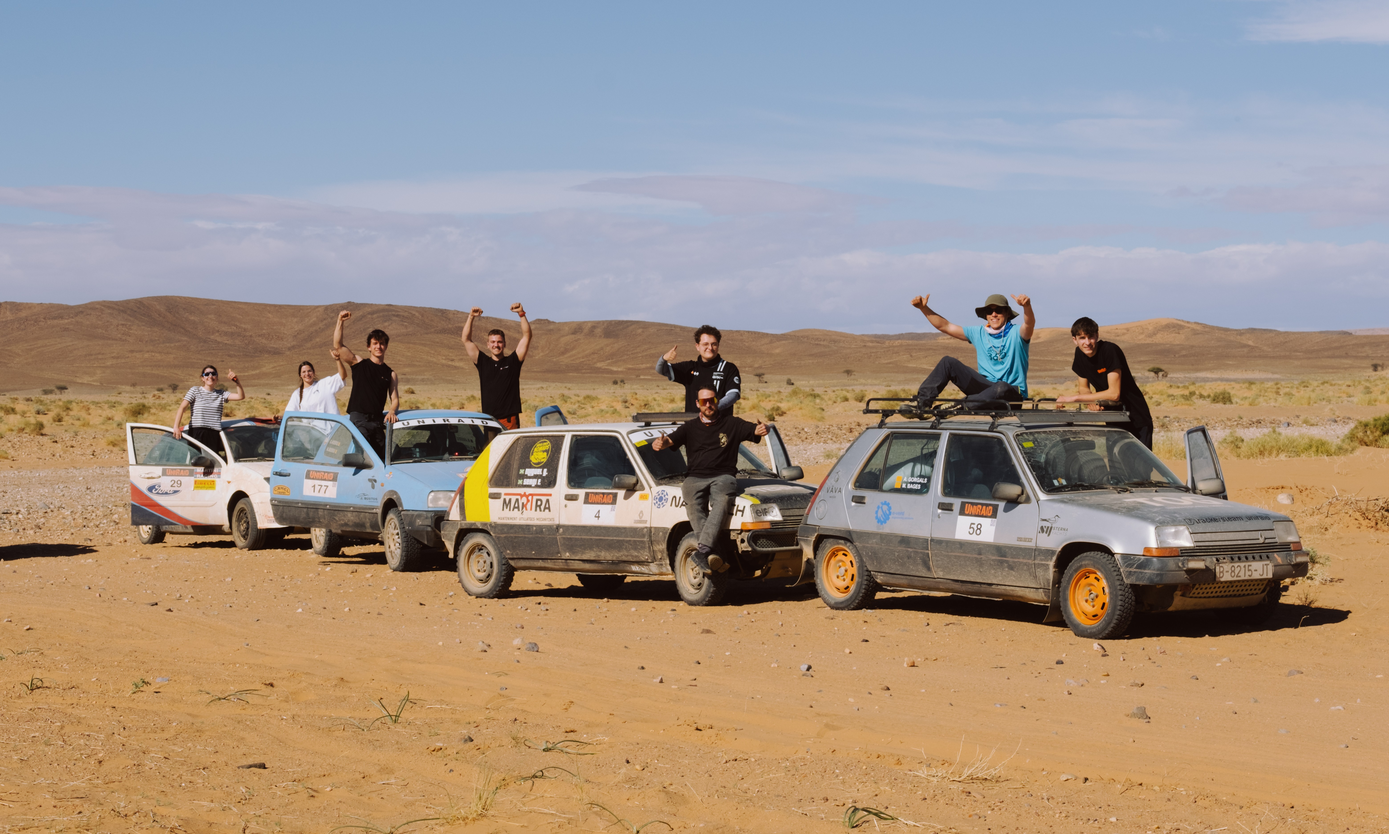
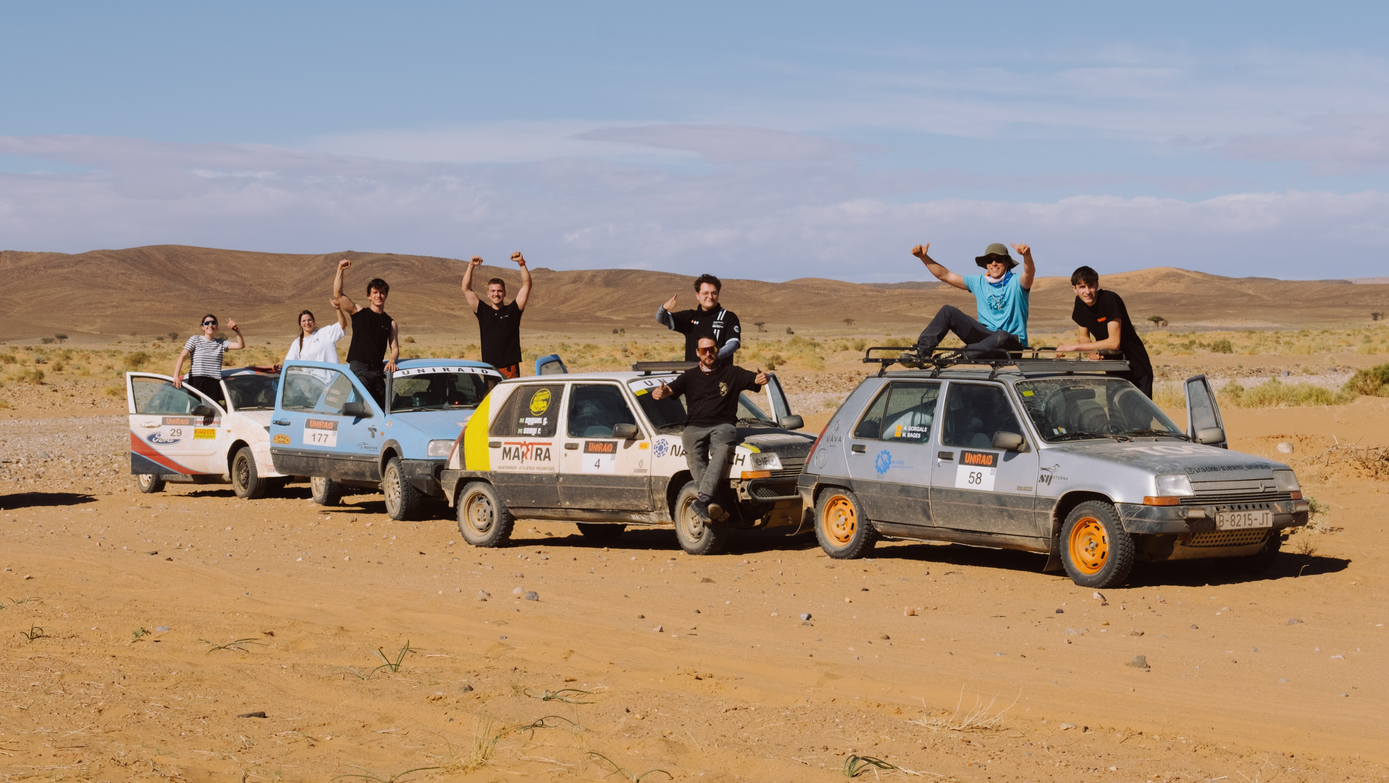
contact us foto

diff --git a/index.html b/index.html
@@ -1482,7 +1482,7 @@
       <a href="https://forms.gle/Mra4e4ZmENgEyaDa6" target="_blank" class="btn2 en">Contact us</a>
     </div>
     <div>
-      <img src="foto3.jpg" alt="Cotxe a la uniraid" style="margin:20px auto; display:block; width:100%; max-width: 800px; border-radius: 30px;">
+      <img src="portada1.jpeg" alt="Cotxe a la uniraid" style="margin:20px auto; display:block; width:100%; max-width: 800px; border-radius: 30px;">
     </div>
   </section>
 
